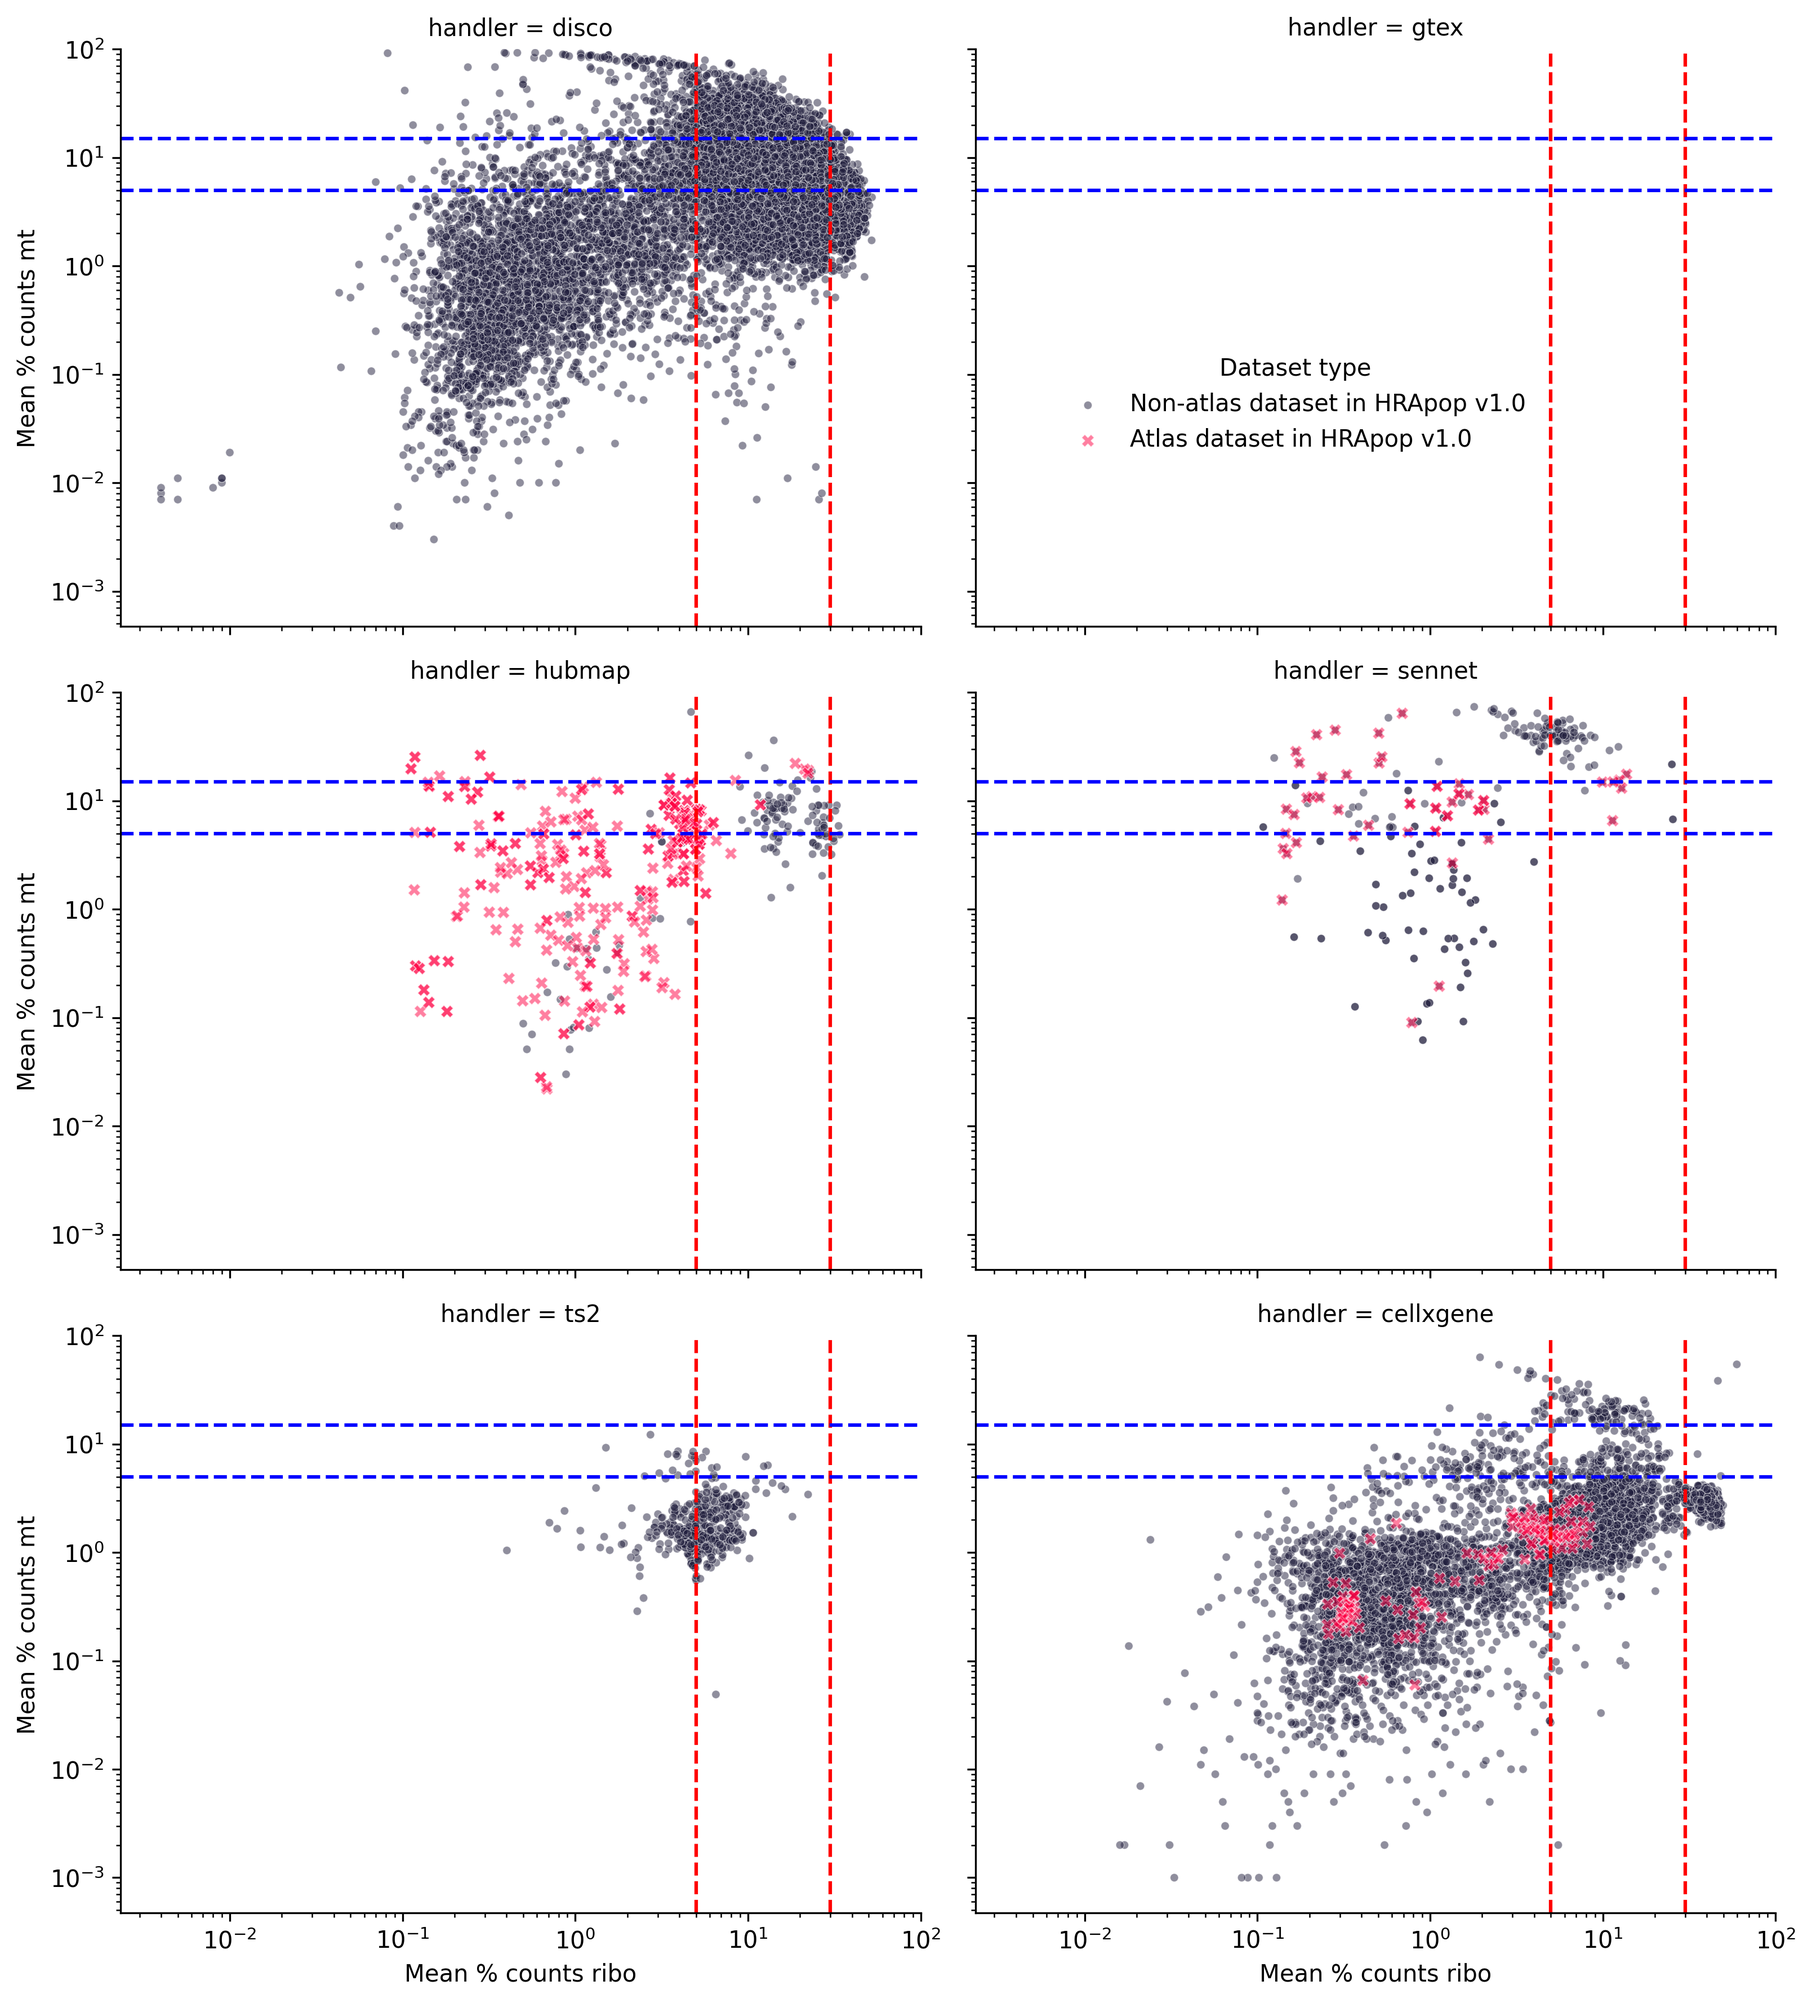
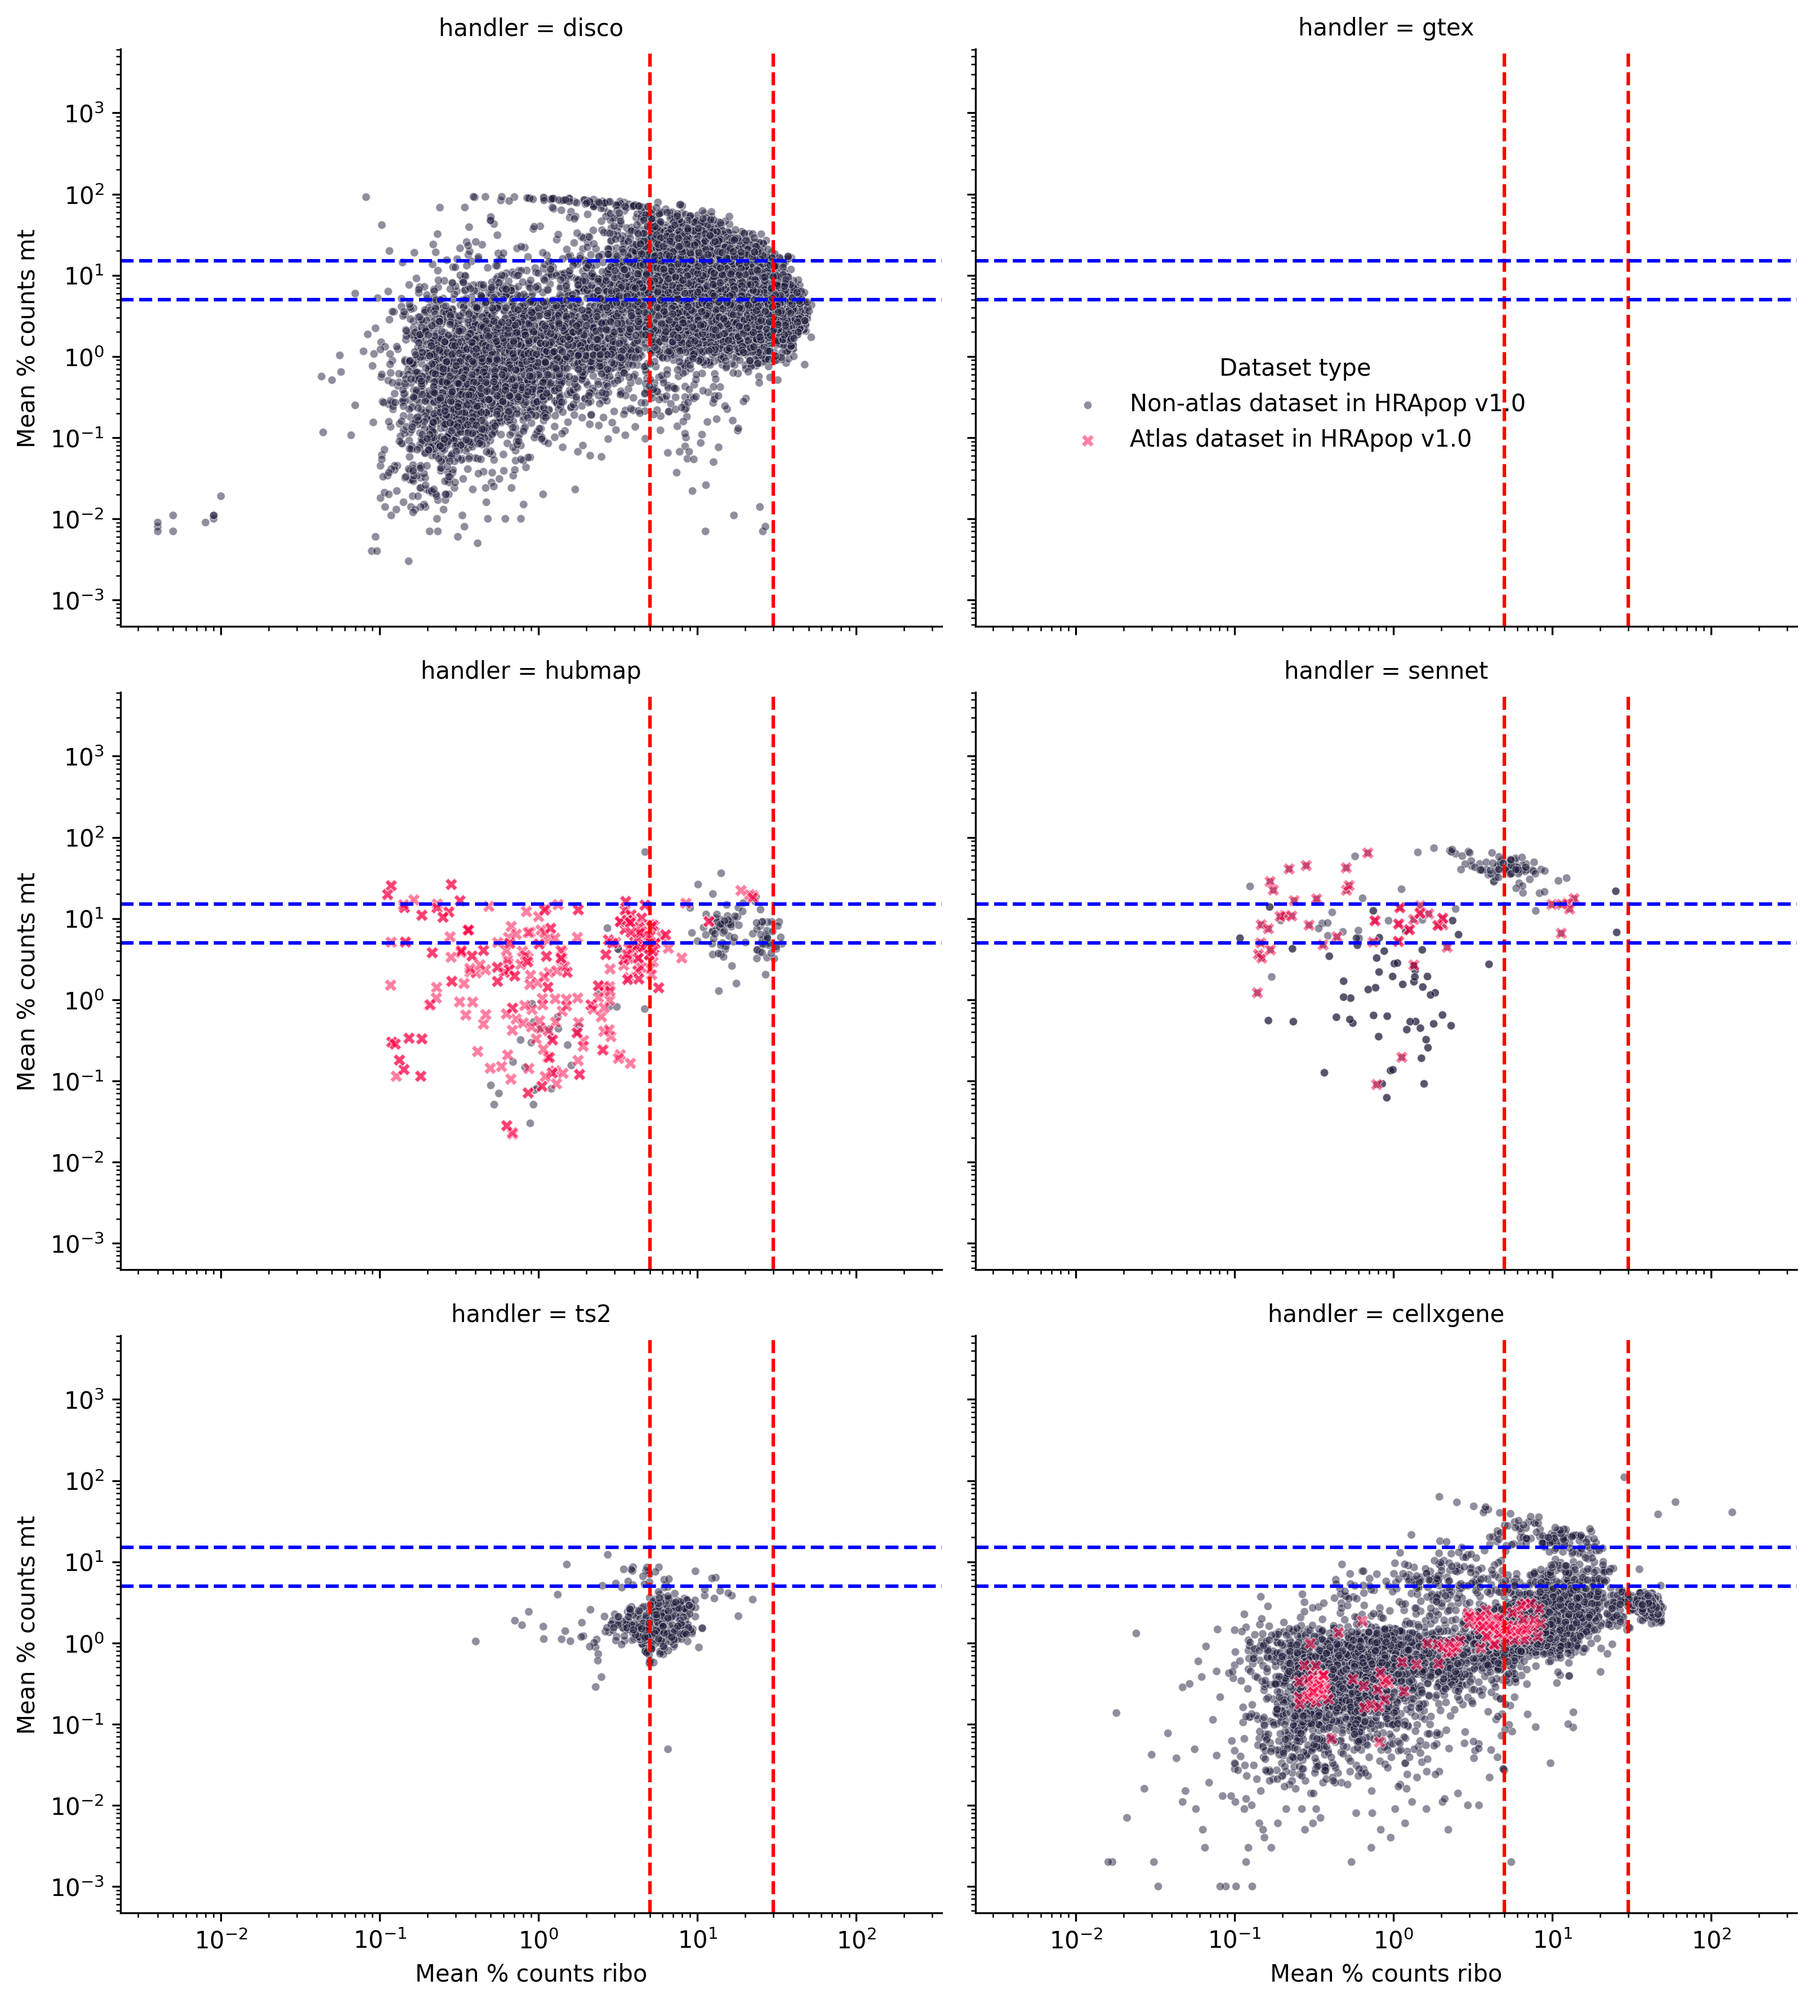
Updated plots

diff --git a/qc/10-hra-pop-v1.1-qc.py b/qc/10-hra-pop-v1.1-qc.py
@@ -32,6 +32,9 @@ ATLAS_LABEL = "Atlas dataset in HRApop v1.0"
 NON_ATLAS_LABEL = "Non-atlas dataset in HRApop v1.0"
 ATLAS_ORDER = [NON_ATLAS_LABEL, ATLAS_LABEL]
 
+DEFAULT_X_COLUMN = "mean_pct_counts_ribo"
+DEFAULT_Y_COLUMN = "mean_pct_counts_mt"
+
 CUSTOM_PALETTE = {
     ATLAS_LABEL: "#ff0043",
     NON_ATLAS_LABEL: "#201e3d",
@@ -43,6 +46,16 @@ MARKER_MAP = {
 SIZE_MAP = {
     NON_ATLAS_LABEL: 12,
     ATLAS_LABEL: 28,
+}
+
+THRESHOLD_COLUMN_MAP = {
+    DEFAULT_X_COLUMN: "ribo",
+    DEFAULT_Y_COLUMN: "mito",
+}
+
+AXIS_LABEL_MAP = {
+    DEFAULT_X_COLUMN: "Mean % counts ribo",
+    DEFAULT_Y_COLUMN: "Mean % counts mt",
 }
 
 
@@ -110,7 +123,7 @@ def load_qc_thresholds() -> dict:
         return json.load(f)
 
 
-def compile_stats(df: pd.DataFrame) -> pd.DataFrame:
+def aggregate_by_handler(df: pd.DataFrame) -> pd.DataFrame:
     """Compute grouped summary statistics by handler.
 
     Args:
@@ -139,18 +152,98 @@ def compile_stats(df: pd.DataFrame) -> pd.DataFrame:
     return summary_table
 
 
-def make_visualization(df: pd.DataFrame, atlas_metadata: pd.DataFrame) -> None:
-    """Create and save a faceted ribo-vs-mito scatter plot.
+def make_summary_table(df: pd.DataFrame, threshold: dict) -> None:
+    """Print dataset counts against the configured mito and ribo thresholds."""
 
-    Points are color/shape/size encoded by atlas status and overlaid with
-    configured ribo/mito threshold lines.
+    def count_datasets(group_df: pd.DataFrame, mask: pd.Series) -> int:
+        matching_rows = group_df.loc[mask]
+        return int(matching_rows["dataset_id"].nunique())
 
-    Args:
-        df: QC report DataFrame.
-        atlas_metadata: DataFrame containing dataset_id atlas flags.
-    """
-    thresholds = load_qc_thresholds()
+    summary_rows: list[dict[str, str | int]] = []
 
+    for handler, group_df in df.groupby("handler", sort=True):
+        summary_rows.extend(
+            [
+                {
+                    "handler": str(handler),
+                    "metric": "datasets_total",
+                    "dataset_count": int(group_df["dataset_id"].nunique()),
+                },
+                {
+                    "handler": str(handler),
+                    "metric": "datasets_at_or_above_ribo_min",
+                    "dataset_count": count_datasets(
+                        group_df,
+                        group_df["mean_pct_counts_ribo"] >= threshold["ribo"]["min"],
+                    ),
+                },
+                {
+                    "handler": str(handler),
+                    "metric": "datasets_at_or_below_ribo_max",
+                    "dataset_count": count_datasets(
+                        group_df,
+                        group_df["mean_pct_counts_ribo"] <= threshold["ribo"]["max"],
+                    ),
+                },
+                {
+                    "handler": str(handler),
+                    "metric": "datasets_at_or_above_mito_min",
+                    "dataset_count": count_datasets(
+                        group_df,
+                        group_df["mean_pct_counts_mt"] >= threshold["mito"]["min"],
+                    ),
+                },
+                {
+                    "handler": str(handler),
+                    "metric": "datasets_at_or_below_mito_max",
+                    "dataset_count": count_datasets(
+                        group_df,
+                        group_df["mean_pct_counts_mt"] <= threshold["mito"]["max"],
+                    ),
+                },
+                {
+                    "handler": str(handler),
+                    "metric": "datasets_within_mito_range",
+                    "dataset_count": count_datasets(
+                        group_df,
+                        group_df["mean_pct_counts_mt"].between(
+                            threshold["mito"]["min"],
+                            threshold["mito"]["max"],
+                            inclusive="both",
+                        ),
+                    ),
+                },
+                {
+                    "handler": str(handler),
+                    "metric": "datasets_within_ribo_and_mito_ranges",
+                    "dataset_count": count_datasets(
+                        group_df,
+                        group_df["mean_pct_counts_ribo"].between(
+                            threshold["ribo"]["min"],
+                            threshold["ribo"]["max"],
+                            inclusive="both",
+                        )
+                        & group_df["mean_pct_counts_mt"].between(
+                            threshold["mito"]["min"],
+                            threshold["mito"]["max"],
+                            inclusive="both",
+                        ),
+                    ),
+                },
+            ]
+        )
+
+    summary_table = pd.DataFrame(summary_rows)
+
+    print(summary_table.to_string(index=False))
+    OUTPUT_DIR.mkdir(parents=True, exist_ok=True)
+    summary_table.to_csv(OUTPUT_DIR / "qc_summary_table.csv", index=False)
+    return
+
+
+def enrich_summary_with_atlas_info(
+    df: pd.DataFrame, atlas_metadata: pd.DataFrame
+) -> pd.DataFrame:
     merged_df = pd.merge(df, atlas_metadata, on="dataset_id", how="left")
     merged_df["is_atlas_dataset"] = merged_df["is_atlas_dataset"].fillna(False)
     merged_df["atlas_label"] = merged_df["is_atlas_dataset"].map(
@@ -159,28 +252,54 @@ def make_visualization(df: pd.DataFrame, atlas_metadata: pd.DataFrame) -> None:
             False: NON_ATLAS_LABEL,
         }
     )
+    return merged_df
 
-    print(merged_df.head())
+
+def make_scatter_graph(
+    df: pd.DataFrame,
+    name: str,
+    x_column: str = DEFAULT_X_COLUMN,
+    y_column: str = DEFAULT_Y_COLUMN,
+    x_label: str | None = None,
+    y_label: str | None = None,
+    x_scale: str = "log",
+    y_scale: str = "log",
+    show_ablines=False,
+) -> None:
+    """Create and save a faceted ribo-vs-mito scatter plot.
+
+    Points are color/shape/size encoded by atlas status and overlaid with
+    configured ribo/mito threshold lines.
+
+    Args:
+        df: QC report DataFrame.
+        x_column: Column to plot on the x-axis.
+        y_column: Column to plot on the y-axis.
+        x_label: Optional custom label for the x-axis.
+        y_label: Optional custom label for the y-axis.
+        x_scale: Matplotlib scale for the x-axis.
+        y_scale: Matplotlib scale for the y-axis.
+    """
+    thresholds = load_qc_thresholds()
+
+    missing_columns = [
+        column
+        for column in (x_column, y_column, "handler", "atlas_label")
+        if column not in df.columns
+    ]
+    if missing_columns:
+        raise ValueError(
+            f"Missing required columns for visualization: {missing_columns}"
+        )
+
+    x_label = x_label or AXIS_LABEL_MAP.get(x_column, x_column)
+    y_label = y_label or AXIS_LABEL_MAP.get(y_column, y_column)
+    x_threshold_key = THRESHOLD_COLUMN_MAP.get(x_column)
+    y_threshold_key = THRESHOLD_COLUMN_MAP.get(y_column)
+
+    merged_df = df.copy()
 
     mpl.rcParams["figure.figsize"] = (7, 6)
-
-    merged_df = merged_df.copy()
-    merged_df["is_in_mito_range"] = merged_df["mean_pct_counts_mt"].between(
-        thresholds["mito"]["min"],
-        thresholds["mito"]["max"],
-        inclusive="both",
-    )
-
-    print("+" * 28)
-    print(merged_df["is_in_mito_range"].sum())
-    print("+" * 28)
-
-    mito_summary = merged_df.groupby("handler")["is_in_mito_range"].agg(
-        true_count="sum",
-        total="count",
-    )
-    mito_summary["pct_true"] = mito_summary["true_count"] / mito_summary["total"]
-    print(mito_summary)
 
     g = sns.FacetGrid(
         merged_df,
@@ -196,8 +315,8 @@ def make_visualization(df: pd.DataFrame, atlas_metadata: pd.DataFrame) -> None:
 
     g.map_dataframe(
         sns.scatterplot,
-        x="mean_pct_counts_ribo",
-        y="mean_pct_counts_mt",
+        x=x_column,
+        y=y_column,
         style="atlas_label",
         style_order=ATLAS_ORDER,
         markers=MARKER_MAP,
@@ -217,26 +336,67 @@ def make_visualization(df: pd.DataFrame, atlas_metadata: pd.DataFrame) -> None:
 
     # Add threshold lines and axis formatting to each facet.
     for ax in g.axes.flatten():
-        for value in (thresholds["ribo"]["min"], thresholds["ribo"]["max"]):
-            ax.axvline(value, color="red", linestyle="--", linewidth=1.5)
-        for value in (thresholds["mito"]["min"], thresholds["mito"]["max"]):
-            ax.axhline(value, color="blue", linestyle="--", linewidth=1.5)
+        if show_ablines:
+            if x_threshold_key is not None:
+                for value in (
+                    thresholds[x_threshold_key]["min"],
+                    thresholds[x_threshold_key]["max"],
+                ):
+                    ax.axvline(value, color="red", linestyle="--", linewidth=1.5)
+            if y_threshold_key is not None:
+                for value in (
+                    thresholds[y_threshold_key]["min"],
+                    thresholds[y_threshold_key]["max"],
+                ):
+                    ax.axhline(value, color="blue", linestyle="--", linewidth=1.5)
 
-        ax.set_xscale("log")
-        ax.set_yscale("log")
-        ax.set_xlim(0, 100)
-        ax.set_ylim(0, 100)
-        ax.set_xlabel("Mean % counts ribo")
-        ax.set_ylabel("Mean % counts mt")
+        ax.set_xscale(x_scale)
+        ax.set_yscale(y_scale)
+        ax.set_xlabel(x_label)
+        ax.set_ylabel(y_label)
 
     OUTPUT_DIR.mkdir(parents=True, exist_ok=True)
-    output_path = OUTPUT_DIR / "qc_scatter_by_handler.png"
+    output_path = OUTPUT_DIR / f"{name}.png"
     plt.tight_layout()
     plt.savefig(output_path, dpi=300, bbox_inches="tight")
     plt.close()
 
     print(f"Saved plot to {output_path}")
 
+def make_jitter_plot(df: pd.DataFrame, name: str) -> None:
+    """Create and save a jitter plot of percent low quality by handler."""
+    required_columns = ["handler", "percent_low_quality", "atlas_label"]
+    missing_columns = [column for column in required_columns if column not in df.columns]
+    if missing_columns:
+        raise ValueError(f"Missing required columns for jitter graph: {missing_columns}")
+
+    plt.figure(figsize=(11, 6))
+    ax = sns.stripplot(
+        data=df,
+        x="handler",
+        y="percent_low_quality",
+        hue="atlas_label",
+        order=sorted(df["handler"].dropna().unique()),
+        palette=CUSTOM_PALETTE,
+        dodge=True,
+        jitter=0.25,
+        alpha=0.45,
+        size=3,
+    )
+
+    ax.set_xlabel("Handler")
+    ax.set_ylabel("Percent Low Quality")
+    ax.set_title("Dataset-level Percent Low Quality by Handler")
+    plt.xticks(rotation=45, ha="right")
+    plt.legend(title="Dataset type", bbox_to_anchor=(1.02, 1), loc="upper left")
+
+    OUTPUT_DIR.mkdir(parents=True, exist_ok=True)
+    output_path = OUTPUT_DIR / f"{name}.png"
+    plt.tight_layout()
+    plt.savefig(output_path, dpi=300, bbox_inches="tight")
+    plt.close()
+
+    print(f"Saved plot to {output_path}")
 
 def main() -> None:
     """Run end-to-end QC summary generation and plotting."""
@@ -246,9 +406,20 @@ def main() -> None:
     print("=" * 100)
     atlas_metadata = load_hra_pop_data()
     df = load_qc_data()
-    print(df.columns)
-    compile_stats(df)
-    make_visualization(df, atlas_metadata)
+    merged_df = enrich_summary_with_atlas_info(df, atlas_metadata)
+    aggregate_by_handler(merged_df)
+    make_summary_table(merged_df, load_qc_thresholds())
+    make_scatter_graph(merged_df, name="qc_scatter_by_handler", show_ablines=True)
+    make_jitter_plot(merged_df, name="qc_jitter_by_handler_quality")
+    # make_scatter_graph(
+    #     merged_df,
+    #     x_column="mean_n_genes_by_counts",
+    #     y_column="mean_total_counts",
+    #     name="qc_mean_genes_by_counts_vs_total_counts",
+    #     x_scale="log",
+    #     y_scale="linear",
+    #     show_ablines=False,
+    # )
     print("=" * 100)
     print("")
     print("")
